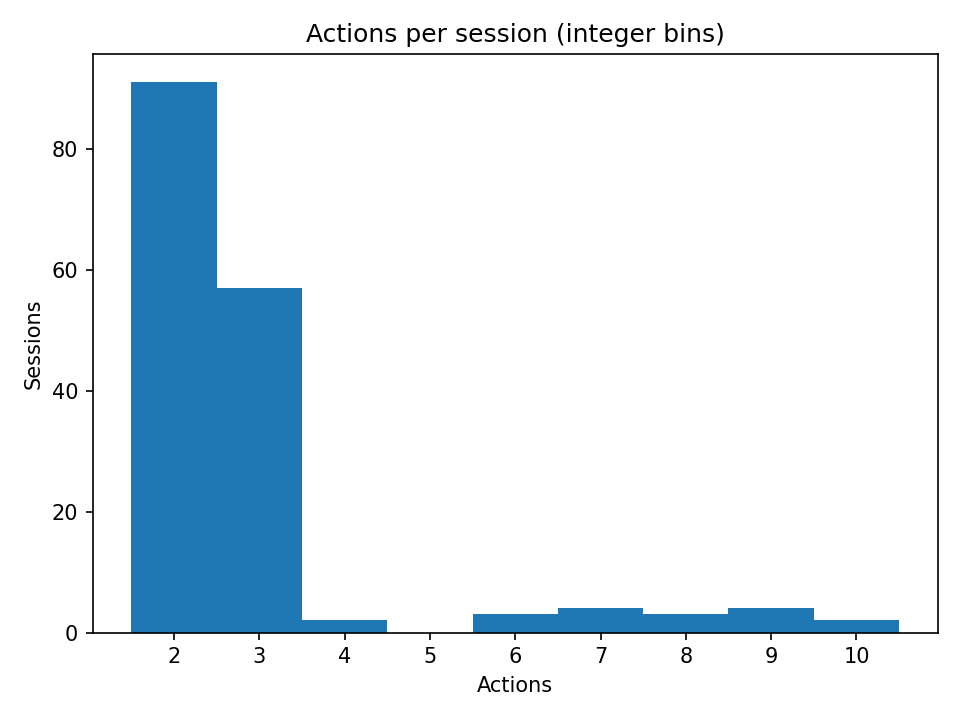
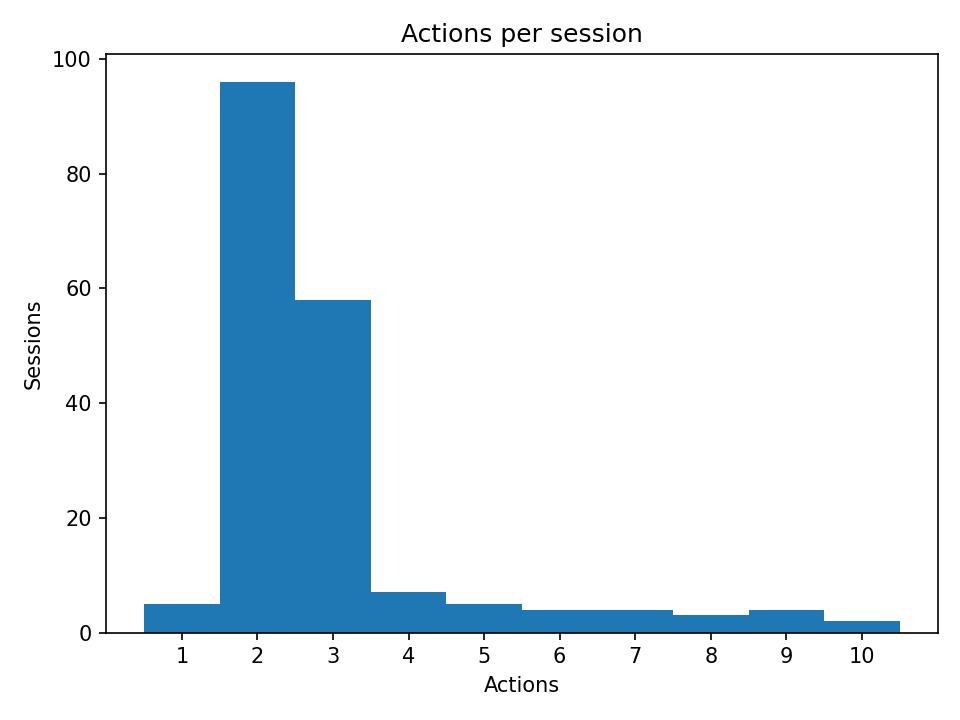
Added new statistics

diff --git a/src/components/GrayscaleControl.vue b/src/components/GrayscaleControl.vue
@@ -34,7 +34,7 @@
             </button>
           </div>
 
-          <p v-else class="no-image ty-body-medium">No image loaded.</p>
+          <p v-else class="no-image">No image loaded.</p>
         </div>
       </div>
     </transition>

diff --git a/src/components/Metadata.vue b/src/components/Metadata.vue
@@ -128,7 +128,7 @@
   }
 
   .no-meta {
-    padding: 1rem 0.75rem;
+    padding: 1.4rem;
     font-style: italic;
     color: #666;
   }

diff --git a/src/statistics/analyze_analytics.py b/src/statistics/analyze_analytics.py
@@ -8,6 +8,7 @@ from pathlib import Path
 import pandas as pd
 import matplotlib.pyplot as plt
 import numpy as np
+from datetime import datetime
 
 
 def load_ndjson(path: Path) -> pd.DataFrame:
@@ -44,6 +45,18 @@ def explode_actions(df: pd.DataFrame) -> pd.DataFrame:
     return ex[["session_id", "t"]]
 
 
+def extract_timestamp(row):
+    if "timestamp" in row and row["timestamp"]:
+        return row["timestamp"]
+
+    if "actions" in row and isinstance(row["actions"], list) and len(row["actions"]) > 0:
+        first_action = row["actions"][0]
+        if isinstance(first_action, dict) and "ts" in first_action:
+            return first_action["ts"] / 1000
+
+    return None
+
+
 def make_plots(df: pd.DataFrame, outdir: Path):
     outdir.mkdir(parents=True, exist_ok=True)
 
@@ -72,12 +85,34 @@ def make_plots(df: pd.DataFrame, outdir: Path):
 
             plt.figure()
             plt.hist(aps, bins=bins, edgecolor=None)
-            plt.title("Actions per session (integer bins)")
+            plt.title("Actions per session")
             plt.xlabel("Actions")
             plt.ylabel("Sessions")
             plt.xticks(np.arange(min_k, max_k + 1, 1))
             plt.tight_layout()
             plt.savefig(outdir / "actions_per_session.png", dpi=150)
+            plt.close()
+
+    df_with_ts = df.copy()
+    df_with_ts["ts"] = df_with_ts.apply(extract_timestamp, axis=1)
+    df_with_ts = df_with_ts[df_with_ts["ts"].notna()].copy()
+
+    if not df_with_ts.empty:
+        df_with_ts["date"] = pd.to_datetime(df_with_ts["ts"], unit="s")
+        df_with_ts["month"] = df_with_ts["date"].dt.to_period("M")
+        df_with_ts["action_count"] = df_with_ts["actions"].map(lambda a: len(a) if isinstance(a, list) else 0)
+
+        monthly_actions = df_with_ts.groupby("month")["action_count"].sum().sort_index()
+
+        if len(monthly_actions) > 0:
+            plt.figure(figsize=(10, 6))
+            monthly_actions.plot(kind="bar")
+            plt.title("Actions per Month")
+            plt.xlabel("Month")
+            plt.ylabel("Total Actions")
+            plt.xticks(rotation=45)
+            plt.tight_layout()
+            plt.savefig(outdir / "actions_per_month.png", dpi=150)
             plt.close()
 
 
@@ -93,9 +128,43 @@ def main():
         return
 
     df = load_ndjson(path)
-    print(f"Loaded {len(df)} session records")
+
+    # Statistics
+    total_sessions = len(df)
+    unique_users = df["session_id"].nunique() if "session_id" in df.columns else 0
+
+    print(f"\n=== Analytics Summary ===")
+    print(f"Total sessions: {total_sessions}")
+    print(f"Unique users (unique session_id): {unique_users}")
+
+    if "actions" in df.columns and not df.empty:
+        total_actions = df["actions"].map(lambda a: len(a) if isinstance(a, list) else 0).sum()
+        avg_actions = total_actions / total_sessions if total_sessions > 0 else 0
+        print(f"Total actions: {int(total_actions)}")
+        print(f"Average actions per session: {avg_actions:.2f}")
+
+    df_with_ts = df.copy()
+    df_with_ts["ts"] = df_with_ts.apply(extract_timestamp, axis=1)
+    df_with_ts = df_with_ts[df_with_ts["ts"].notna()].copy()
+
+    if not df_with_ts.empty:
+        df_with_ts["date"] = pd.to_datetime(df_with_ts["ts"], unit="s")
+        df_with_ts["month"] = df_with_ts["date"].dt.to_period("M")
+        df_with_ts["action_count"] = df_with_ts["actions"].map(lambda a: len(a) if isinstance(a, list) else 0)
+
+        monthly_actions = df_with_ts.groupby("month")["action_count"].sum().sort_index()
+
+        if len(monthly_actions) > 0:
+            print(f"\n=== Monthly Activity ===")
+            for month, count in monthly_actions.items():
+                print(f"{month}: {int(count)} actions")
+
+            most_active = monthly_actions.idxmax()
+            print(f"\nMost active month: {most_active} ({int(monthly_actions[most_active])} actions)")
+
+    print(f"\nGenerating charts...")
     make_plots(df, Path(args.out))
-    print(f"Charts written to {args.out}/\n - actions_distribution.png\n - actions_per_session_hist.png")
+    print(f"Charts written to {args.out}/\n - actions_types.png\n - actions_per_session.png\n - actions_per_month.png")
 
 
 if __name__ == "__main__":
